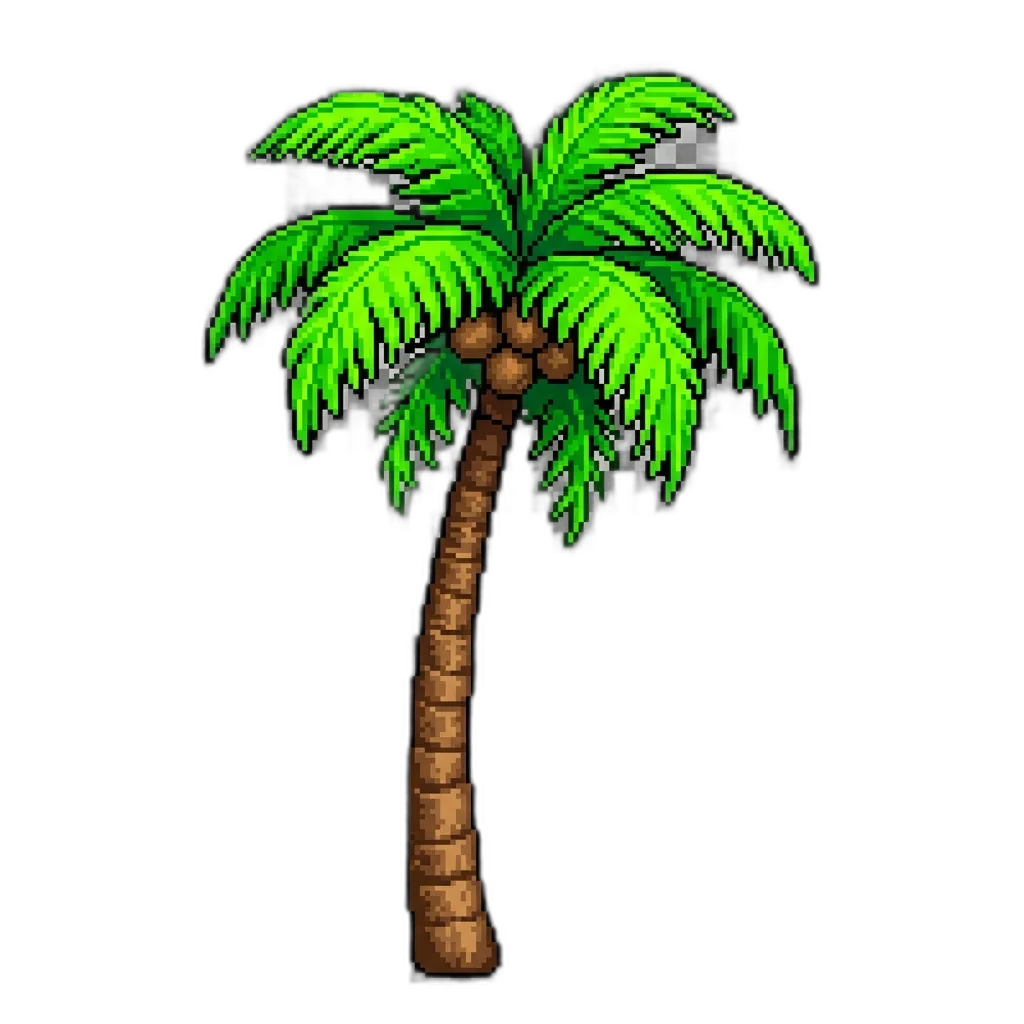
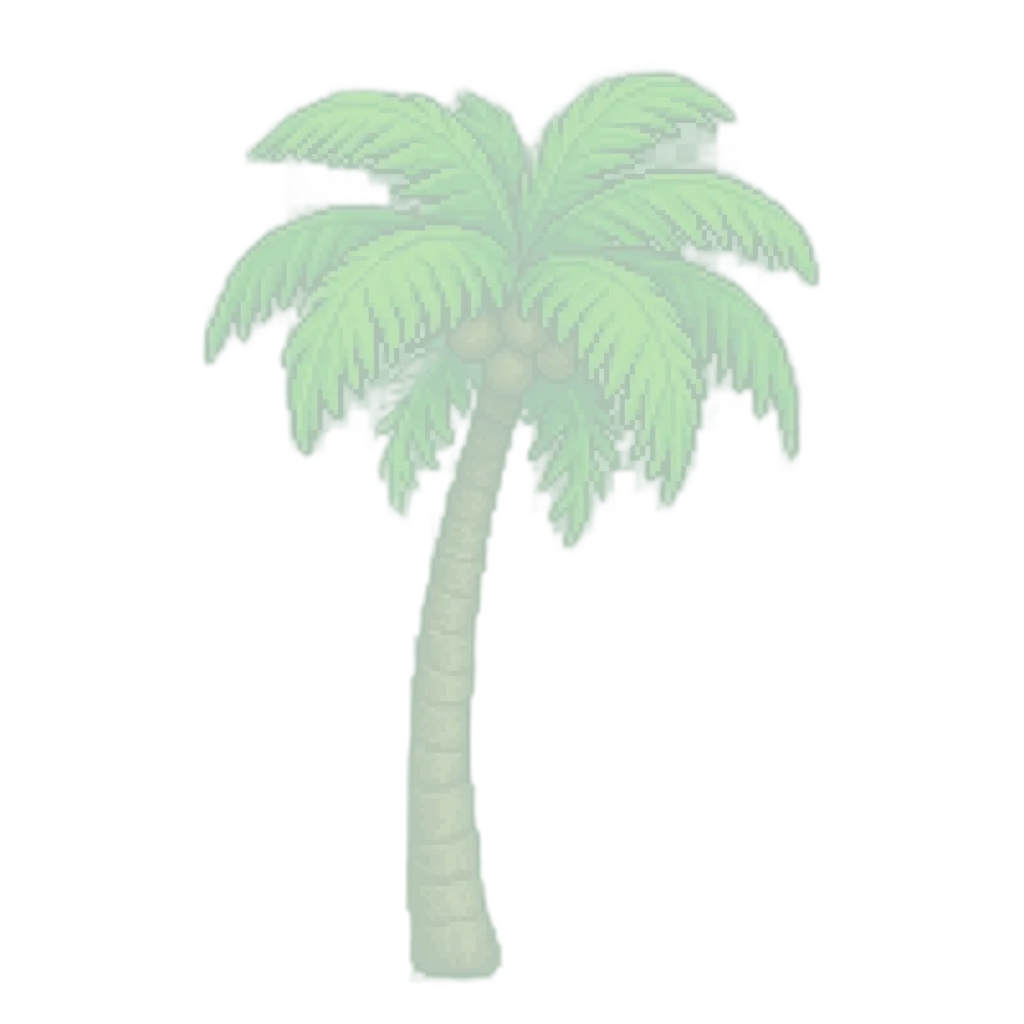
Fix catastrophic palm tree composite artifact by baking tint into asset

Changed region(s): [[0.1875, 0.0625, 0.8125, 0.9688]]

diff --git a/js/art.js b/js/art.js
@@ -162,15 +162,7 @@ const ART = {
       for (let px = -pScroll; px < w; px += pSpacing) {
         // Find exact height of the terrain at this x-coordinate so the tree sits firmly on the hill
         const hillY = _mtY(px + t * 46 + pw / 2, h*0.60, 135, 1.73);
-        ctx.save();
-        ctx.translate(px, hillY - ph + 5);
-        ctx.globalAlpha = 0.85;
-        ctx.drawImage(IMG.palmTrees, 0, 0, pw, ph);
-        // Wash the tree with a heavy pastel tint to flatten it into the background aesthetic
-        ctx.globalCompositeOperation = 'source-atop';
-        ctx.fillStyle = 'rgba(188, 217, 196, 0.85)'; // matches the hill #bcd9c4 with slight transparency
-        ctx.fillRect(0, 0, pw, ph);
-        ctx.restore();
+        ctx.drawImage(IMG.palmTrees, px, hillY - ph + 5, pw, ph);
       }
       ctx.restore();
     }

diff --git a/tools/tint_palms.py b/tools/tint_palms.py
@@ -1,0 +1,20 @@
+from PIL import Image
+
+img = Image.open('assets/palm_trees.webp').convert('RGBA')
+data = img.getdata()
+new_data = []
+tint = (188, 217, 196)
+alpha_factor = 0.85
+
+for r, g, b, a in data:
+    if a == 0:
+        new_data.append((0, 0, 0, 0))
+    else:
+        new_r = int((r * (1 - alpha_factor)) + (tint[0] * alpha_factor))
+        new_g = int((g * (1 - alpha_factor)) + (tint[1] * alpha_factor))
+        new_b = int((b * (1 - alpha_factor)) + (tint[2] * alpha_factor))
+        new_data.append((new_r, new_g, new_b, int(a * 0.85)))
+
+img.putdata(new_data)
+img.save('assets/palm_trees.webp', 'WEBP')
+print("Successfully baked tint into palm_trees.webp")